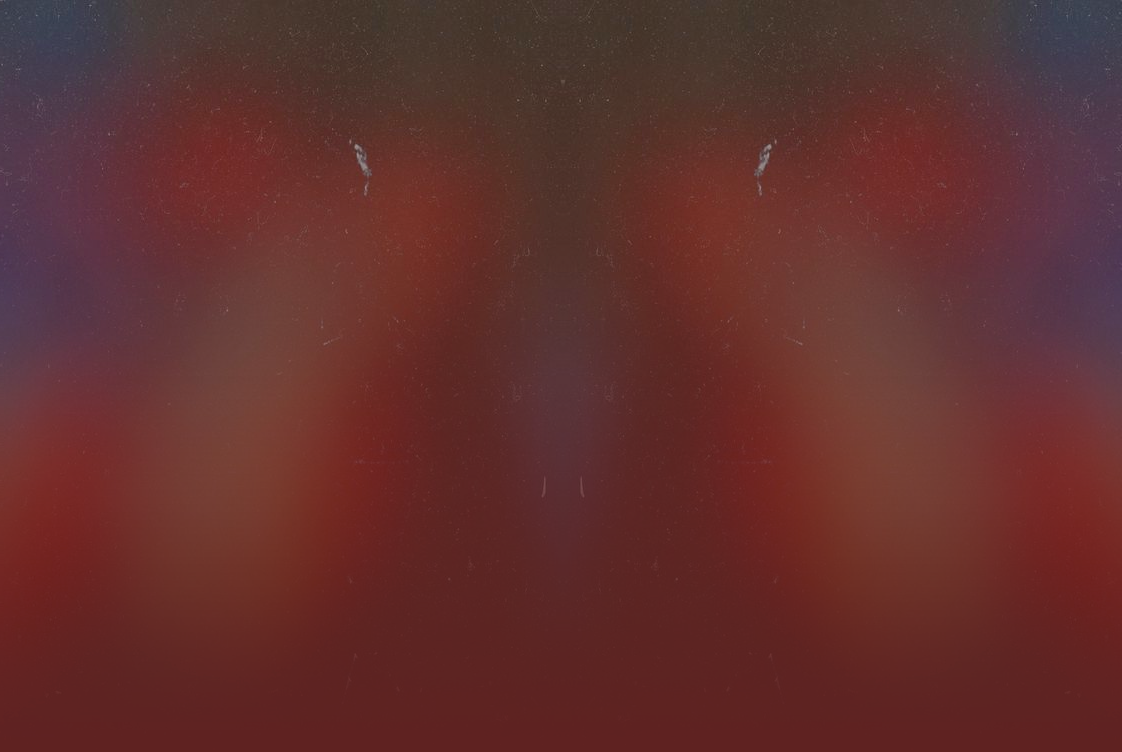
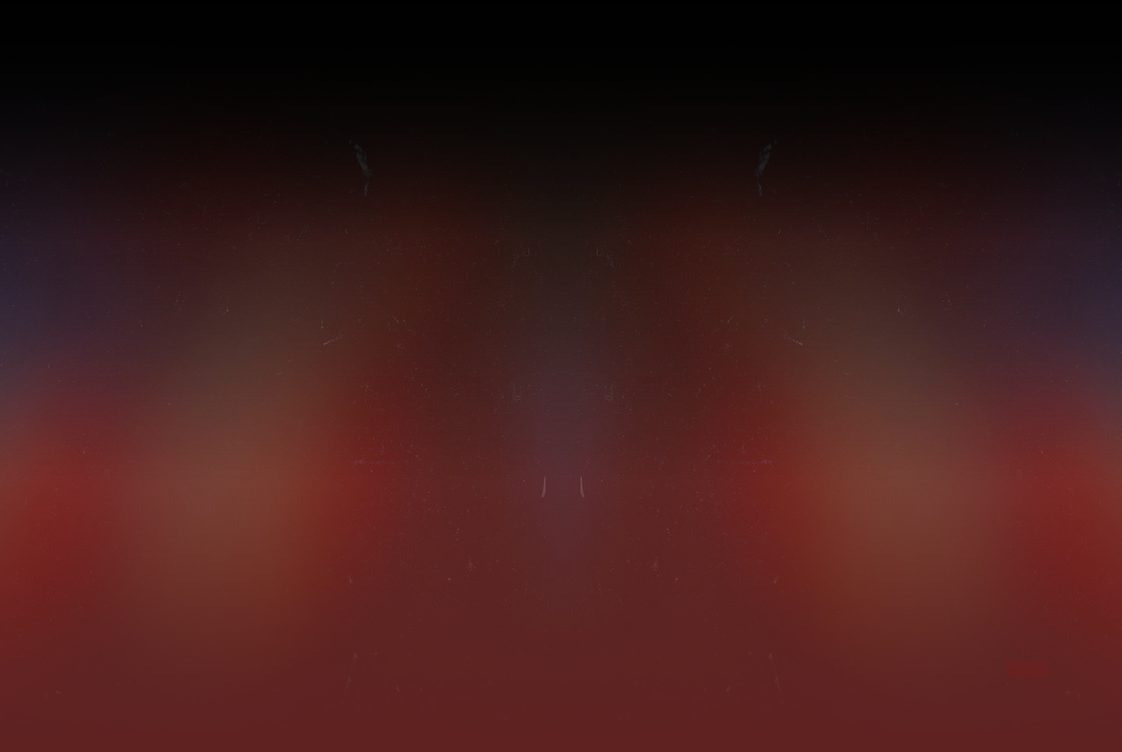
add Glitch effect - Card effect

diff --git a/css/artist.css b/css/artist.css
@@ -1,20 +1,49 @@
+@import url('https://fonts.googleapis.com/css2?family=Darker+Grotesque&family=Passion+One:wght@700&display=swap');
 
 *{
     margin: 0;
     padding: 0;
     box-sizing: border-box;
+    font-family: 'Darker Grotesque', sans-serif;
 }
-
+h2,.glitch span, .Titre .glitch span{
+    font-family: 'Passion One', cursive;
+}
 body {
     min-height: 100vh;
-    background-image: url("../img/fond.png");
+    background-image: url("../img/fond2.jpg");
     width: 100%;
     background-size: cover;
     background-position: center;
     background-repeat: no-repeat;
     background-attachment: fixed;
 }
+.Titre .bubble .triangle{
+    content: "";
+    color: #702220;
+    position: absolute;
+    height: 300px;
+    width: 300px;
+    clip-path: polygon(100% 100%, 0 100%, 100% 40%);
 
+}
+.Titre .glitch {
+    font-size: 6em;
+    position: relative;
+    display: flex;
+    justify-content: center;
+    padding-top: 40px;
+
+}
+.Titre .glitch span{
+    padding-top: 40px;
+}
+.Titre{
+    background-color: black;
+    height: 250px;
+    text-align: center;
+    opacity: 85%;
+}
 .container {
     position: relative;
     display: flex;
@@ -23,25 +52,28 @@ body {
     padding: 40px 0;
     flex-wrap: wrap;
 }
-
 .container .box{
     position: relative;
     width: 320px;
-    height: 400px;
-    color:#24282E;
+    height: 340px;
+    color:#333942;
     display: flex;
     align-items: center;
     margin: 20px 30px;
     transition: 0.5s;
     flex-direction: column;
     text-align: center;
-    background: linear-gradient(95deg, #131317, #1e1e26);
+    background: linear-gradient(95deg, #131317,#0B0B0A);
     border-radius: 10px;
+    border-style: inset ;
+    opacity: 95%;
+    box-shadow: 0.25em 0.25em 10px #441A17, -0.5em -0.5em 15px black;
 }
+
 .box:hover{
     background: linear-gradient(45deg, #131317, #1e1e26);
     transform: translateY(-15px);
-    color: #6A6A6A;
+    color: #9DA6B3;
 }
 
 /*Block members*/
@@ -57,12 +89,72 @@ body {
     margin-top: 1rem;
     width: 90%;
 }
-
-.container .box .content h2 {
-    font-size: 2em;
-    color: #24282E;
+/*Glitch title Effect*/
+.glitch {
+    font-size: 1.3em;
+    color: white;
+    font-weight: 700;
+    text-transform: uppercase;
+    text-shadow: 0.05em 0 0 rgba(255,0,0,0.75),-0.025em -0.05em 0 rgba(0,255,0,0.75),0.025em 0.05em 0 rgba(0,0,255,0.75);
+    animation: glitch 500ms infinite;
+    position: relative;
+    left: 0;
+    top: 0;
 }
+.glitch span, .Titre .glitch span{
+    position: absolute;
+    top: 0;
+}
+.glitch span:first-child{
+    animation: glitch 650ms infinite;
+    clip-path: polygon(0 0, 100% 0,100% 45%, 0 45%);
+    transform: translate(-.025em, -0.0125em);
+    opacity: 0.8;
+}
+.glitch span:last-child{
+    animation: glitch 375ms infinite;
+    clip-path: polygon(0 80%, 100% 20%,100% 100%, 0 100%);
+    transform: translate(0.0125em, 0.025em);
+    opacity: 0.8;
+}
+@keyframes glitch {
+    0%{
+        text-shadow: 0.05em 0 0 rgba(255,0,0,0.75),
+        -0.05em -0.025em 0 rgba(0,255,0,0.75),
+        -0.025em 0.05em 0 rgba(0,0,255,0.75);
+    }
+    14%{
+        text-shadow: 0.05em 0 0 rgba(255,0,0,0.75),
+        -0.05em -0.025em 0 rgba(0,255,0,0.75),
+        -0.025em 0.05em 0 rgba(0,0,255,0.75);
+    }
+    15%{
+        text-shadow: -0.05em -0.025em 0 rgba(255,0,0,0.75),
+        0.025em 0.025em 0 rgba(0,255,0,0.75),
+        -0.05em -0.05em 0 rgba(0,0,255,0.75);
+    }
+    49%{
+        text-shadow: -0.05em -0.025em 0 rgba(255,0,0,0.75),
+        0.025em 0.025em 0 rgba(0,255,0,0.75),
+        -0.05em -0.05em 0 rgba(0,0,255,0.75);
+    }
+    50%{
+        text-shadow: 0.025em 0.05em 0 rgba(255,0,0,0.75),
+        0.05em 0 0 rgba(0,255,0,0.75),
+        0em -0.05em 0 rgba(0,0,255,0.75);
+    }
+    99%{
+        text-shadow: 0.025em 0.05em 0 rgba(255,0,0,0.75),
+        0.05em 0 0 rgba(0,255,0,0.75),
+        0em -0.05em 0 rgba(0,0,255,0.75);
+    }
+    100%{
+        text-shadow: -0.025em 0 0 rgba(255,0,0,0.75),
+        -0.025em -0.025em 0 rgba(0,255,0,0.75),
+        -0.025em -0.05em 0 rgba(0,0,255,0.75);
+    }
 
+}
 .container .box .content p {
     font-size: 1.1em;
     color: #fff;
@@ -72,20 +164,38 @@ body {
 
 .moreInfo a{
     position: absolute;
-    bottom: 0;
+    bottom: 10px;
     right: 0;
     padding: 10px;
     width: 40%;
     text-decoration: none;
-    color: black;
+    color: #333942;
     font-size: 1.3em;
     font-weight: bold;
+}
+.moreInfo a:hover{
+    color: #9DA6B3;
 }
 .image  {
     width: 50%;
     margin-top: -15px;
     margin-bottom: 10px;
     border-radius: 50%;
+    border: thick double #702220;
+    box-shadow: 0.25em 0.25em 10px #441A17, -0.5em -0.5em 15px black;
+
+}
+/*Reduce de effect if someone want to not put animation*/
+@media (prefers-reduced-motion: reduce) {
+    *, ::before, ::after {
+        animation-delay: -1ms !important;
+        animation-duration: 1ms !important;
+        animation-iteration-count: 1 !important;
+        background-attachment: initial !important;
+        scroll-behavior: auto !important;
+        transition-duration: 0s !important;
+        transition-delay: 0s !important;
+    }
 }
 
 

diff --git a/template/artist.html b/template/artist.html
@@ -6,21 +6,22 @@
 </head>
 <!--Block Body-->
 <body>
-<section>
+<section class="Titre">
+    <div class="Bubble">
+        <h2 class="glitch"><span aria-hidden="true">Artiste</span>Artiste<span aria-hidden="true">Artiste</span></h2>
+        <div class="triangle"></div>
+    </div>
 
 </section>
 
 <!--Artist Card With Infomations-->
 <div id="artistContainer" class="container">
     {{range .}}
-
         <div class="box">
-
             <img class="image" src={{.Image}} alt="artist">
             <div class="content">
-                <h2>{{.Name}}</h2>
+                <h2 class="glitch"><span aria-hidden="true"><span aria-hidden="true">{{.Name}}</span>{{.Name}}</span>{{.Name}}</h2>
                 <p> {{.CreationDate}} </p>
-                <!--information cachée : input = hidden-->
                 <div class="membres">
                     {{range .Members}}
                             <span>{{.}}</span>
